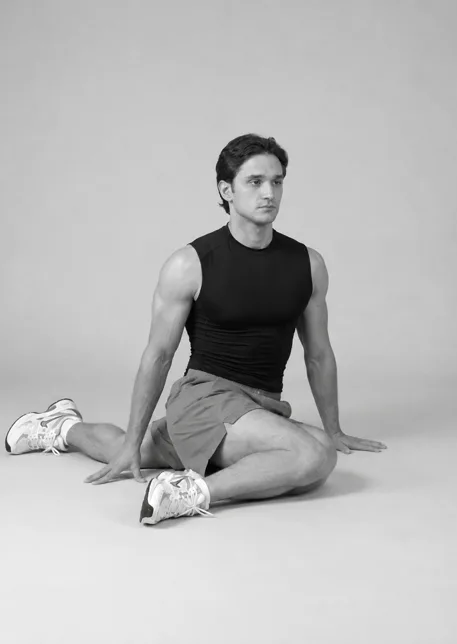
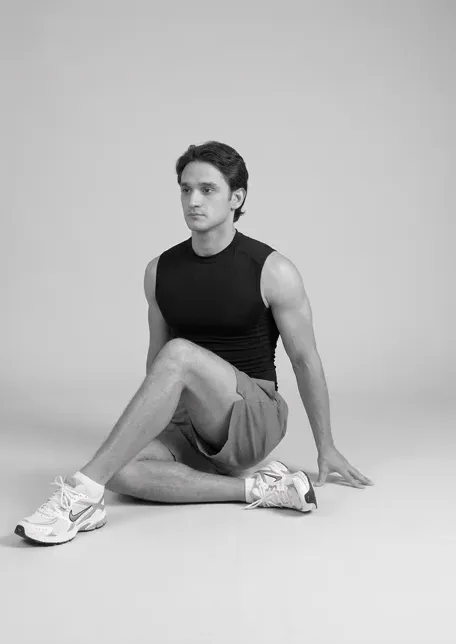
90/90-Übergänge: Endbild als Spiegelung des Startbilds

Changed region(s): [[0.0, 0.1863, 0.8596, 0.8696]]

diff --git a/docs/Uebergabe.md b/docs/Uebergabe.md
@@ -129,7 +129,7 @@ Umgesetzt, `tsc -b` und `check-plan.mjs` sauber, im Dev-Browser geprüft (Mobili
 - **41 Bilder für die 33 Mobility-Übungen** (38 endgültige, drei Nachbesserungen): 28 Einzelbilder „Haltung“ (`noEndPhoto`) für Halteübungen und Tests, fünf Paare Start/Ende (Cat-Cow, Open Book, Thread the Needle, Wall Slides, 90/90-Übergänge). `genImage` in `mobilityExercises.ts` ist gesetzt. Neue Spezifikation `scripts/kie-jobs/spec-mobility.mjs` (exportiert `TAG = 'mob'`, `MODEL`, `REF_FIELD`); `make.mjs` nimmt jetzt eine Spezifikationsdatei als zweites Argument und schreibt nach `batch-<TAG>-<phase>`. Job-Ordner: `batch-mob-start`, `batch-mob-end`, `batch-mob-redo`, `batch-mob-redo2`, `pilot`.
 - **Modellwahl:** Guthaben war 482 Credits, GPT Image 2 (18 je Bild) hätte nicht gereicht. Pilot: **Nano Banana 2** (`nano-banana-2`, Feld `image_input`) kostet **8 Credits** und trifft Stil und Standardposen; `nano-banana-2-lite` (4 Credits, Feld `image_urls`) verfehlt Posen. Alle 33 Startbilder und 5 Endbilder mit Nano Banana 2; Ausreißer im ersten Durchgang: Couch Stretch (Pilotbild übernommen), tiefe Kniebeuge (zu flach), Cobra (Hüfte in der Luft), 90/90-Test (Kniestand statt Sitz), Sleeper Stretch (Arm flach). Zweiter Durchgang mit Nano Banana 2 löste Kniebeuge und 90/90-Test (mit dem 90/90-Halten-Bild als Posenreferenz), Cobra, Open Book Ende und Sleeper Stretch erst mit **GPT Image 2**. Der User hat zwischendurch auf 1134 Credits aufgeladen; Stand nach dem Lauf 1116. Rohbilder (`.png`, jetzt auch `.jpg`) per `.gitignore` ausgeschlossen, ins Repo kommen nur die WebP-Dateien (alle 73 zusammen 772 kB). Raster zur Sichtung in `public/img/gen/_versuche/mob_raster_*.png` (lokal).
 - Skill `~/.claude/skills/kie-ai` um die gemessenen Preise und die Modellwahl ergänzt.
-- **Rückmeldung des Users (26.09., abends):** „zumeist schon ganz gut“. Nachgebessert: **Schulter-CARs und Hüft-CARs** haben jetzt zwei Bilder (Arm oben / Arm hinten; Knie vorn / Knie seitlich; das alte Hüft-CARs-Bild wurde das Endbild, das Startbild mit ihm als Referenz erzeugt), **90/90-Übergänge** Endbild ist die gespiegelte Position (linkes Bein vorn), **Knie-zur-Wand-Mobilisation** zeigt jetzt den Wandkontakt (GPT Image 2 und Nano Banana Pro setzen den Fuß hartnäckig zu weit weg; gelöst mit zwei aufeinanderfolgenden Bearbeitungsschritten „move him 30 cm closer“ in Nano Banana Pro, Versuche in `_versuche/knee_wall_*`). Lehre: Bei Abstandsvorgaben zur Wand das Bild iterativ per Edit näher rücken statt neu generieren. Job-Ordner `batch-mob-redo3` bis `redo6`. Zweite Rückmeldung: Schulter-CARs-Endbild zeigte den falschen Arm (Start linker Arm oben, Ende rechter Arm hinten) und das 90/90-Endbild hatte drei Füße; beide mit GPT Image 2 und dem Startbild als erster Referenz neu erzeugt (`batch-mob-redo7`, im Prompt den Arm ausdrücklich als „his LEFT arm, on the right side of the picture“ und „exactly two legs and two feet“ benannt), vom User in Auftrag gegeben, Abnahme steht aus. Hüft-CARs und Knie zur Wand sind laut User in Ordnung. Übrige Bilder prüft er beim Ausführen.
+- **Rückmeldung des Users (26.09., abends):** „zumeist schon ganz gut“. Nachgebessert: **Schulter-CARs und Hüft-CARs** haben jetzt zwei Bilder (Arm oben / Arm hinten; Knie vorn / Knie seitlich; das alte Hüft-CARs-Bild wurde das Endbild, das Startbild mit ihm als Referenz erzeugt), **90/90-Übergänge** Endbild ist die gespiegelte Position (linkes Bein vorn), **Knie-zur-Wand-Mobilisation** zeigt jetzt den Wandkontakt (GPT Image 2 und Nano Banana Pro setzen den Fuß hartnäckig zu weit weg; gelöst mit zwei aufeinanderfolgenden Bearbeitungsschritten „move him 30 cm closer“ in Nano Banana Pro, Versuche in `_versuche/knee_wall_*`). Lehre: Bei Abstandsvorgaben zur Wand das Bild iterativ per Edit näher rücken statt neu generieren. Job-Ordner `batch-mob-redo3` bis `redo6`. Zweite Rückmeldung: Schulter-CARs-Endbild zeigte den falschen Arm (Start linker Arm oben, Ende rechter Arm hinten) und das 90/90-Endbild hatte drei Füße; beide mit GPT Image 2 und dem Startbild als erster Referenz neu erzeugt (`batch-mob-redo7`, im Prompt den Arm ausdrücklich als „his LEFT arm, on the right side of the picture“ und „exactly two legs and two feet“ benannt), vom User in Auftrag gegeben, Abnahme steht aus. Dritte Rückmeldung: Schulter-CARs passen, das generierte 90/90-Endbild passte weiter nicht zur Übung. Lösung: das Startbild per ffmpeg horizontal gespiegelt (`hflip`), weil die Endposition exakt das Spiegelbild ist; kein Modell nötig. Lehre für Seitenwechsel-Übungen: spiegeln statt generieren. Hüft-CARs und Knie zur Wand sind laut User in Ordnung. Übrige Bilder prüft er beim Ausführen.
 
 ## Nächste Schritte
 
